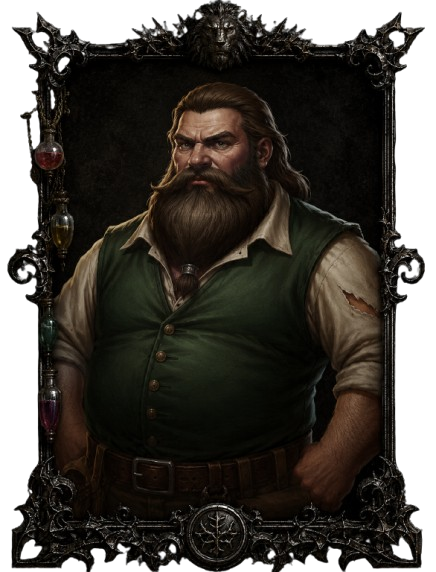
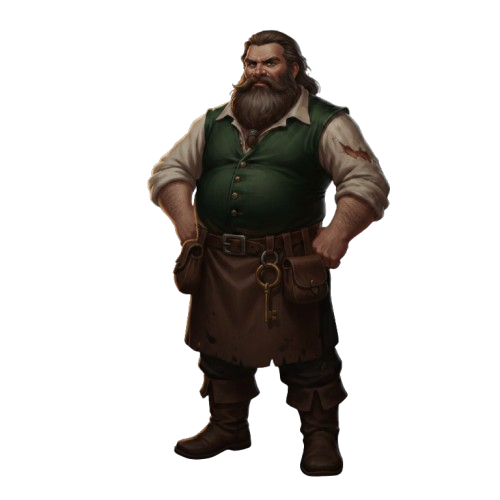
fix: tavern_map spawn to road (green zone), trim left walkable zone

diff --git a/src/scenes/MapScene.js b/src/scenes/MapScene.js
@@ -27,21 +27,29 @@ const MAP_CONFIGS = {
   tavern_map: {
     bgKey: 'map_tavern_map',
     spawnPoints: {
-      default:     { x: 110, y: 620 },
-      from_left:   { x: 110, y: 620 },
-      tavern_exit: { x: 1380, y: 480 },   // возврат из таверны — у двери
+      default:          { x: 350, y: 700 },   // у ворот слева — на дороге (зелёная зона)
+      from_left:        { x: 350, y: 700 },
+      tavern_exit:      { x: 1380, y: 480 },   // возврат из таверны — у двери
+      from_road_boloto: { x: 350, y: 700 },    // возврат с болотной дороги
     },
-    // Нижняя ветка X — правый-нижний угол → Forest1
     exits: [
-      { zone: { x: 1548, y: 720, w: 124, h: 221 }, toMap: 'forest1', spawnId: 'from_left' },
+      // Правый-нижний угол → Forest1
+      { zone: { x: 1548, y: 720, w: 124, h: 221 }, toMap: 'forest1',    spawnId: 'from_left' },
+      // Верхняя-левая дорога → Road Boloto
+      { zone: { x: 0,    y: 130, w: 220, h: 390 }, toMap: 'road_boloto', spawnId: 'from_tavern' },
     ],
-    // Ховер над зданием таверны
     labels: [
       {
         hoverZone: { x: 1095, y: 368, w: 577, h: 232 },
         text: 'Войти',
         screenX: 1516,
         screenY: 72,
+      },
+      {
+        hoverZone: { x: 0, y: 130, w: 220, h: 390 },
+        text: '← Болотная дорога',
+        screenX: 183,
+        screenY: 52,
       },
     ],
     // Верхняя ветка X — дверь таверны → Tavern Inside
@@ -141,6 +149,28 @@ const MAP_CONFIGS = {
     banditPos: { x: 920, y: 490 },   // на дороге у перекрёстка
   },
 
+  road_boloto: {
+    bgKey: 'map_road_boloto',
+    spawnPoints: {
+      default:      { x: 200, y: 780 },   // приход с tavern_map — нижняя дорога
+      from_tavern:  { x: 200, y: 780 },
+    },
+    exits: [
+      // Назад на tavern_map — нижняя-левая дорога
+      { zone: { x: 0, y: 750, w: 320, h: 191 }, toMap: 'tavern_map', spawnId: 'from_road_boloto' },
+    ],
+    labels: [
+      {
+        hoverZone: { x: 0, y: 750, w: 320, h: 191 },
+        text: '← Деревня',
+        screenX: 183,
+        screenY: 875,
+      },
+    ],
+    tavernEntry: null,
+    bandits: false,
+  },
+
   mountains_map: {
     bgKey: 'map_mountains_map',
     spawnPoints: {
@@ -225,6 +255,7 @@ export class MapScene extends Phaser.Scene {
     // Клик по карте
     this.input.on('pointerdown', (ptr) => {
       if (ptr.rightButtonDown()) return;
+      if (this._dialogue?.active) return;   // диалог идёт — движение заблокировано
       const clamped = this.walkable.clamp(ptr.worldX, ptr.worldY);
       this.hero.moveTo(clamped.x, clamped.y);
       this._showClickMarker(clamped.x, clamped.y);

diff --git a/src/systems/WalkableZones.js b/src/systems/WalkableZones.js
@@ -21,7 +21,7 @@ const ZONES = {
   //  Верхняя ветка X → дверь таверны → Tavern Inside
   //  Нижняя ветка X → нижний-правый угол → Forest1
   tavern_map: [
-    { x: 0,    y: 522, w: 315,  h: 185 },   // левый конец дороги
+    { x: 290,  y: 560, w: 100,  h: 190 },   // левый конец дороги (начало мощёной дороги)
     { x: 262,  y: 490, w: 315,  h: 180 },
     { x: 525,  y: 456, w: 330,  h: 172 },
     { x: 790,  y: 403, w: 400,  h: 310 },   // развилка — широкая
@@ -60,6 +60,15 @@ const ZONES = {
     { x: 742,  y: 245, w: 425,  h: 218 },
     { x: 325,  y: 228, w: 485,  h: 222 },
     { x: 85,   y: 262, w: 315,  h: 318 },
+  ],
+
+  // ─── Road Boloto: болотная дорога с развилкой ────────────────────────────
+  road_boloto: [
+    { x: 0,    y: 620, w: 450,  h: 321 },  // нижняя-левая дорога (вход с tavern_map)
+    { x: 300,  y: 420, w: 400,  h: 280 },  // центральная дорога
+    { x: 580,  y: 260, w: 400,  h: 280 },  // верхняя центральная
+    { x: 880,  y: 180, w: 500,  h: 280 },  // дорога к мосту справа
+    { x: 1250, y: 200, w: 422,  h: 260 },  // правый конец с мостом
   ],
 
   // ─── Elf Boloto: X-форма — два пересекающихся пути ────────────────────────

diff --git a/src/scenes/LoadingScene.js b/src/scenes/LoadingScene.js
@@ -74,6 +74,7 @@ export class LoadingScene extends Phaser.Scene {
     this.load.image('map_swamp_map',    'maps/swamp_map.png');
     this.load.image('map_forest1',      'maps/forest1.png');
     this.load.image('map_elf_boloto',   'maps/elf_boloto.png');
+    this.load.image('map_road_boloto',  'maps/road_boloto.png');
 
     // Персонажи на карте
     this.load.image('map_hero',      'maps/characters/hero.png');